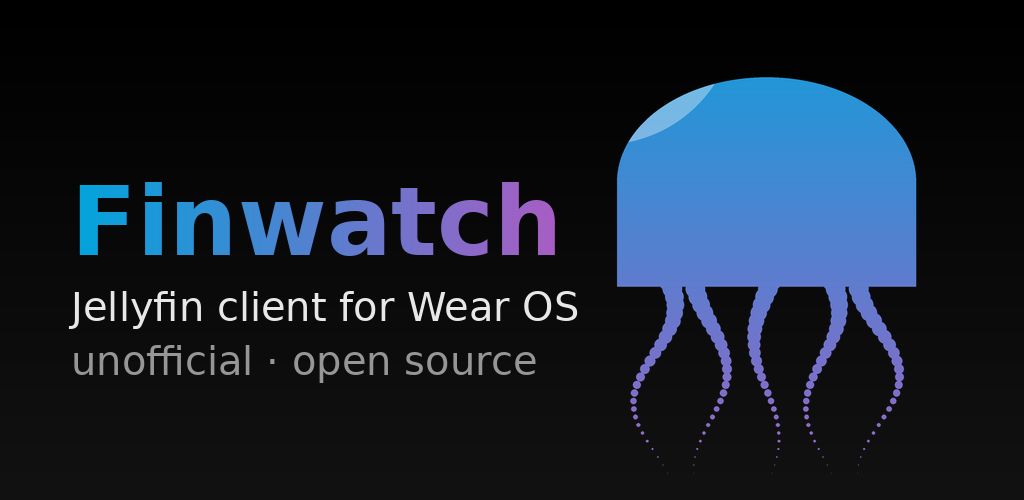
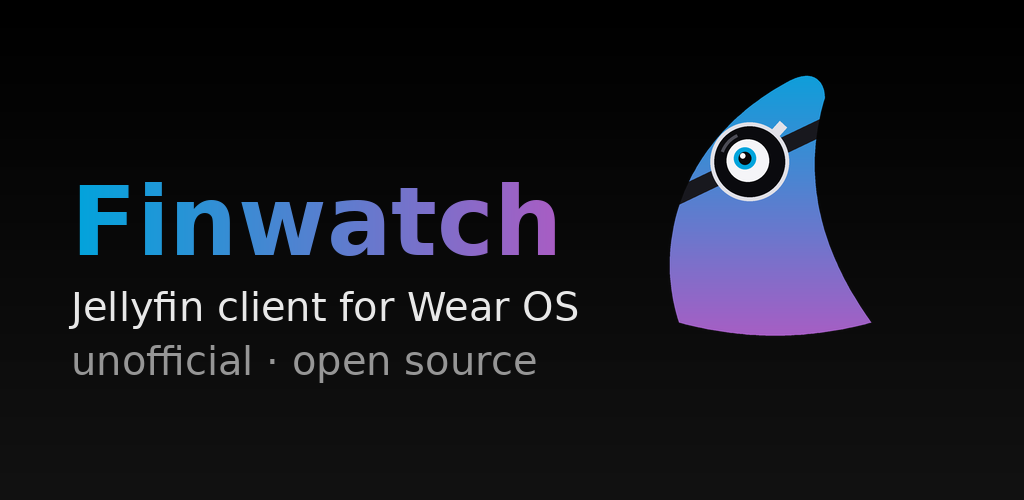
New mascot: a fin wearing a smartwatch as an eye patch
Replaces the jellyfish glyph across launcher icons (all densities +
adaptive layers), the 512px store icon, the feature graphic, and the
fastlane icon -- all generated from the one glyph in
generate_launcher_icons.py. The watch sits centered on the strap and
shows a comic eye on its screen; Jellyfin's gradient colors stay (their
branding policy explicitly permits the colors, the mark is our own).

Claude-Session: https://claude.ai/code/session_01Hs1hgth26A5a42ufTEM5qs

Changed region(s): [[0.5938, 0.15, 0.9062, 0.84], [0.5938, 0.75, 0.625, 0.84], [0.8438, 0.78, 0.875, 0.84]]

diff --git a/scripts/generate_launcher_icons.py b/scripts/generate_launcher_icons.py
@@ -1,6 +1,11 @@
 #!/usr/bin/env python3
 """Generate the Finwatch launcher icon (legacy + adaptive) into app/src/main/res.
 
+The glyph is the Finwatch mascot: a shark fin wearing a round smartwatch
+as a pirate eye patch, the watch screen showing a comic eye. Drawn in
+Jellyfin's brand gradient colors (explicitly permitted by their branding
+policy; the mark itself is our own design).
+
 Run once locally when the icon design changes:
     python3 scripts/generate_launcher_icons.py
 """
@@ -37,9 +42,51 @@ BG_COLOR = (0x00, 0x00, 0x00)  # matches the app's own black background
 JELLYFIN_BLUE = (0x00, 0xA4, 0xDC)
 JELLYFIN_PURPLE = (0xAA, 0x5C, 0xC3)
 
+STRAP_COLOR = (24, 24, 30)
+CASE_COLOR = (225, 225, 232)
+SCREEN_COLOR = (10, 10, 14)
+SCLERA_COLOR = (245, 245, 248)
+PUPIL_COLOR = (8, 8, 10)
+
+# Strap endpoints and the watch's position along it, in the mascot's unit
+# square. The watch center sits exactly on the strap line.
+STRAP_P1 = (0.02, 0.58)
+STRAP_P2 = (0.90, 0.16)
+WATCH_T = 0.48
+WATCH_RADIUS = 0.135  # of unit width
+PUPIL_DIR = (-0.35, -0.25)  # comic eye glancing up-left
+
 
 def lerp_color(a, b, t):
     return tuple(int(round(a[i] + (b[i] - a[i]) * t)) for i in range(3))
+
+
+def bezier(p0, p1, p2, p3, steps=60):
+    pts = []
+    for s in range(steps + 1):
+        t = s / steps
+        mt = 1 - t
+        pts.append((
+            mt**3 * p0[0] + 3 * mt**2 * t * p1[0] + 3 * mt * t**2 * p2[0] + t**3 * p3[0],
+            mt**3 * p0[1] + 3 * mt**2 * t * p1[1] + 3 * mt * t**2 * p2[1] + t**3 * p3[1],
+        ))
+    return pts
+
+
+def fin_outline(scale_x, scale_y):
+    """Shark-fin silhouette, unit coords scaled by the given factors."""
+    def P(x, y):
+        return (x * scale_x, y * scale_y)
+    pts = []
+    # leading (left) edge: bottom-left up to the tip, bulging left
+    pts += bezier(P(0.20, 0.93), P(0.10, 0.62), P(0.24, 0.28), P(0.58, 0.10))
+    # tip roundover
+    pts += bezier(P(0.58, 0.10), P(0.66, 0.06), P(0.70, 0.10), P(0.70, 0.16))
+    # trailing (right) edge: concave down to bottom-right
+    pts += bezier(P(0.70, 0.16), P(0.62, 0.42), P(0.68, 0.68), P(0.86, 0.93))
+    # bottom: gentle curve back to start
+    pts += bezier(P(0.86, 0.93), P(0.64, 0.99), P(0.42, 0.99), P(0.20, 0.93))
+    return pts
 
 
 def vertical_gradient(size, top_color, bottom_color):
@@ -50,64 +97,82 @@ def vertical_gradient(size, top_color, bottom_color):
     return column.resize((size, size))
 
 
-def draw_jelly_silhouette(draw: ImageDraw.ImageDraw, cx: float, cy: float, r: float):
-    """A jellyfish glyph (dome + trailing tentacles) in solid white, meant to
-    be used as an alpha mask for a gradient fill -- see render_glyph()."""
-    # Dome: a smooth half-ellipse rather than a flat pieslice, for a softer
-    # silhouette that reads more like Jellyfin's own rounded mark.
-    draw.ellipse([cx - r, cy - r * 0.85, cx + r, cy + r * 0.55], fill=255)
-    draw.rectangle([cx - r, cy - r * 0.15, cx + r, cy + r * 0.55], fill=255)
-
-    # Tentacles: tapered, wavy strokes fading out towards their tips, drawn
-    # as overlapping circles along a sine path so the width can shrink
-    # smoothly (a single draw.line() call can't taper).
-    tentacle_count = 5
-    span = r * 1.5
-    start_x = cx - span / 2
-    gap = span / (tentacle_count - 1)
-    for i in range(tentacle_count):
-        tx = start_x + i * gap
-        length = r * 1.5
-        amplitude = r * 0.14 * (1 if i % 2 == 0 else -1) * (0.6 + 0.4 * abs(i - 2) / 2)
-        segments = 28
-        base_width = r * 0.16
-        for s in range(segments + 1):
-            t = s / segments
-            y = cy + r * 0.35 + t * length
-            x = tx + amplitude * math.sin(t * math.pi * 2.3 + i)
-            width = base_width * (1 - t) ** 1.3
-            if width < 0.6:
-                continue
-            draw.ellipse([x - width / 2, y - width / 2, x + width / 2, y + width / 2], fill=255)
-
-
 def render_glyph(canvas_size: int, cx: float, cy: float, r: float) -> Image.Image:
-    """Blue-to-purple gradient jellyfish, clipped to the silhouette mask and
-    supersampled for smooth (antialiased) edges."""
+    """The fin-with-watch mascot on a transparent canvas_size square,
+    scaled so the whole mark fits a circle of radius ~1.15*r around
+    (cx, cy) -- same contract the old jellyfish glyph had."""
     hi = canvas_size * SUPERSAMPLE
-    mask = Image.new("L", (hi, hi), 0)
-    draw_jelly_silhouette(ImageDraw.Draw(mask), cx * SUPERSAMPLE, cy * SUPERSAMPLE, r * SUPERSAMPLE)
+    # The mascot's unit square maps to a box of side S centered on the
+    # fin's visual center (0.5, 0.525).
+    S = 1.95 * r * SUPERSAMPLE
+    ox = cx * SUPERSAMPLE - 0.5 * S
+    oy = cy * SUPERSAMPLE - 0.525 * S
 
-    gradient = vertical_gradient(hi, JELLYFIN_BLUE, JELLYFIN_PURPLE)
+    def U(x, y):
+        return (ox + x * S, oy + y * S)
+
     glyph = Image.new("RGBA", (hi, hi), (0, 0, 0, 0))
+
+    # fin: gradient clipped to silhouette
+    mask = Image.new("L", (hi, hi), 0)
+    ImageDraw.Draw(mask).polygon(
+        [(ox + px * S, oy + py * S) for (px, py) in fin_outline(1, 1)], fill=255)
+    gradient = Image.new("RGBA", (hi, hi), (0, 0, 0, 0))
+    grad_sq = vertical_gradient(int(S) or 1, JELLYFIN_BLUE, JELLYFIN_PURPLE)
+    gradient.paste(grad_sq, (int(ox), int(oy)))
     glyph.paste(gradient, (0, 0), mask)
 
-    # Soft highlight on the dome for a bit of shine/depth.
-    highlight = Image.new("L", (hi, hi), 0)
-    hd = ImageDraw.Draw(highlight)
-    hr = r * SUPERSAMPLE
-    hd.ellipse(
-        [
-            (cx - hr * 0.5) * SUPERSAMPLE,
-            (cy - hr * 0.55) * SUPERSAMPLE,
-            (cx - hr * 0.05) * SUPERSAMPLE,
-            (cy - hr * 0.1) * SUPERSAMPLE,
-        ],
-        fill=90,
+    d = ImageDraw.Draw(glyph)
+
+    # strap, clipped to the fin
+    strap = Image.new("L", (hi, hi), 0)
+    ImageDraw.Draw(strap).line([U(*STRAP_P1), U(*STRAP_P2)], fill=255, width=int(0.058 * S))
+    band_mask = Image.composite(strap, Image.new("L", (hi, hi), 0), mask)
+    band_layer = Image.new("RGBA", (hi, hi), STRAP_COLOR + (255,))
+    glyph.paste(band_layer, (0, 0), band_mask)
+
+    # watch center on the strap line
+    wx = STRAP_P1[0] + (STRAP_P2[0] - STRAP_P1[0]) * WATCH_T
+    wy = STRAP_P1[1] + (STRAP_P2[1] - STRAP_P1[1]) * WATCH_T
+    cxp, cyp = U(wx, wy)
+    rr = WATCH_RADIUS * S
+
+    # side button at ~1:30, a radial pill behind the case
+    ba = math.radians(-48)
+    bx, by = cxp + rr * 1.06 * math.cos(ba), cyp + rr * 1.06 * math.sin(ba)
+    ux, uy = math.cos(ba), math.sin(ba)
+    vx, vy = -uy, ux
+    L, T = 0.030 * S, 0.017 * S
+    d.polygon(
+        [(bx + ux * L + vx * T, by + uy * L + vy * T),
+         (bx + ux * L - vx * T, by + uy * L - vy * T),
+         (bx - ux * L - vx * T, by - uy * L - vy * T),
+         (bx - ux * L + vx * T, by - uy * L + vy * T)],
+        fill=CASE_COLOR,
     )
-    white_layer = Image.new("RGBA", (hi, hi), (255, 255, 255, 0))
-    white_layer.putalpha(Image.composite(highlight, Image.new("L", (hi, hi), 0), mask))
-    glyph = Image.alpha_composite(glyph, white_layer)
+
+    # slim case, dark screen
+    d.ellipse([cxp - rr, cyp - rr, cxp + rr, cyp + rr], fill=CASE_COLOR)
+    rs = rr * 0.90
+    d.ellipse([cxp - rs, cyp - rs, cxp + rs, cyp + rs], fill=SCREEN_COLOR)
+
+    # comic eye on the screen
+    ex = cxp + PUPIL_DIR[0] * rs * 0.14
+    ey = cyp + PUPIL_DIR[1] * rs * 0.14
+    re = rs * 0.60
+    d.ellipse([ex - re, ey - re, ex + re, ey + re], fill=SCLERA_COLOR)
+    ix = ex + PUPIL_DIR[0] * re * 0.40
+    iy = ey + PUPIL_DIR[1] * re * 0.40
+    ri = re * 0.52
+    d.ellipse([ix - ri, iy - ri, ix + ri, iy + ri], fill=JELLYFIN_BLUE)
+    rp = ri * 0.58
+    d.ellipse([ix - rp, iy - rp, ix + rp, iy + rp], fill=PUPIL_COLOR)
+    rg = rp * 0.42
+    gx, gy = ix - rp * 0.35, iy - rp * 0.40
+    d.ellipse([gx - rg, gy - rg, gx + rg, gy + rg], fill=(255, 255, 255))
+    # subtle screen reflection
+    d.arc([cxp - rs * 0.86, cyp - rs * 0.86, cxp + rs * 0.86, cyp + rs * 0.86],
+          start=200, end=245, fill=(75, 75, 85), width=int(0.012 * S))
 
     return glyph.resize((canvas_size, canvas_size), Image.LANCZOS)
 
@@ -117,7 +182,7 @@ def render_icon(size: int, padding_ratio: float) -> Image.Image:
     draw = ImageDraw.Draw(img)
     draw.ellipse([0, 0, size, size], fill=BG_COLOR)
     pad = size * padding_ratio
-    cx, cy = size / 2, size * 0.46
+    cx, cy = size / 2, size * 0.48
     r = (size - 2 * pad) / 2.3
     glyph = render_glyph(size, cx, cy, r)
     img = Image.alpha_composite(img, glyph)
@@ -126,7 +191,7 @@ def render_icon(size: int, padding_ratio: float) -> Image.Image:
 
 def render_foreground(size: int) -> Image.Image:
     """Transparent background, glyph only, sized for the adaptive safe zone."""
-    cx, cy = size / 2, size * 0.48
+    cx, cy = size / 2, size * 0.50
     r = size * 0.185
     return render_glyph(size, cx, cy, r)
 
